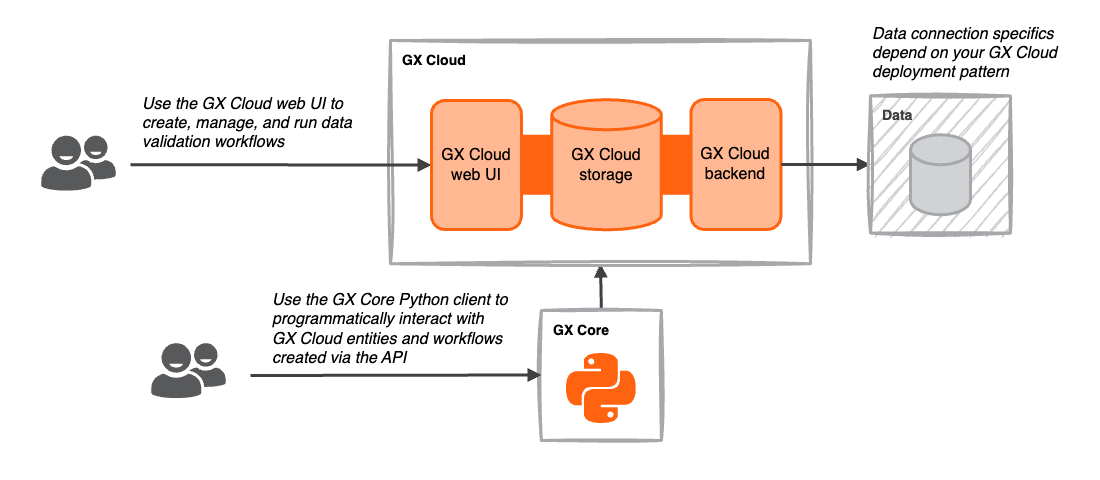
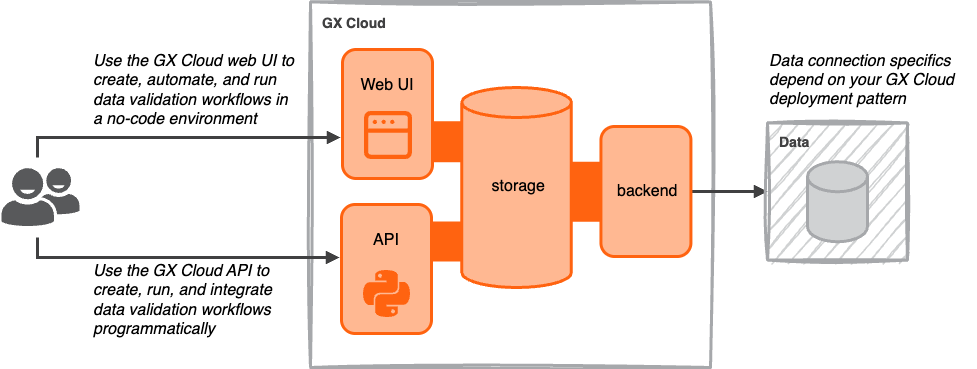
diagram

diff --git a/docs/docusaurus/docs/cloud/overview/gx_cloud_overview.md b/docs/docusaurus/docs/cloud/overview/gx_cloud_overview.md
@@ -58,9 +58,9 @@ There are a variety of GX Cloud features that support additional enhancements to
 
 ## GX Cloud architecture
 
-GX Cloud architecture comprises a frontend web UI, storage for entity configuration and metadata, a backend application, and a Python client.
+GX Cloud architecture comprises a frontend web UI, storage for entity configuration and metadata, a backend application, and a Python API.
 
-![GX Cloud architecture](./overview_images/gx_cloud_architecture.png)
+![You interact through the UI, API, or both. How GX Cloud connects to your data depends on your deployment pattern.](./overview_images/gx_cloud_architecture.png)
 
 * **GX Cloud frontend web UI**. Enables you to manage and validate your organization's data quality without running code and provides shared visibility into your organization's Validation Results history. The GX Cloud web UI is browser- and platform-independent.
 
@@ -68,4 +68,4 @@ GX Cloud architecture comprises a frontend web UI, storage for entity configurat
 
 * **GX Cloud backend application**. Contains the necessary logic and compute to connect to data and run queries. The specifics of how the GX Cloud backend connects to your data is described in [Deployment patterns](/cloud/deploy/deployment_patterns.md).
 
-* **GX Core Python client**. Enables you to interact programmatically with GX Cloud entities and workflows created via the API. The [GX Core Python client](/core/introduction/introduction.mdx) can complement and extend your web UI-created workflows.
+* **GX Cloud Python API**. Enables you to [interact programmatically](/reference/index.md) with GX Cloud entities and workflows. 
